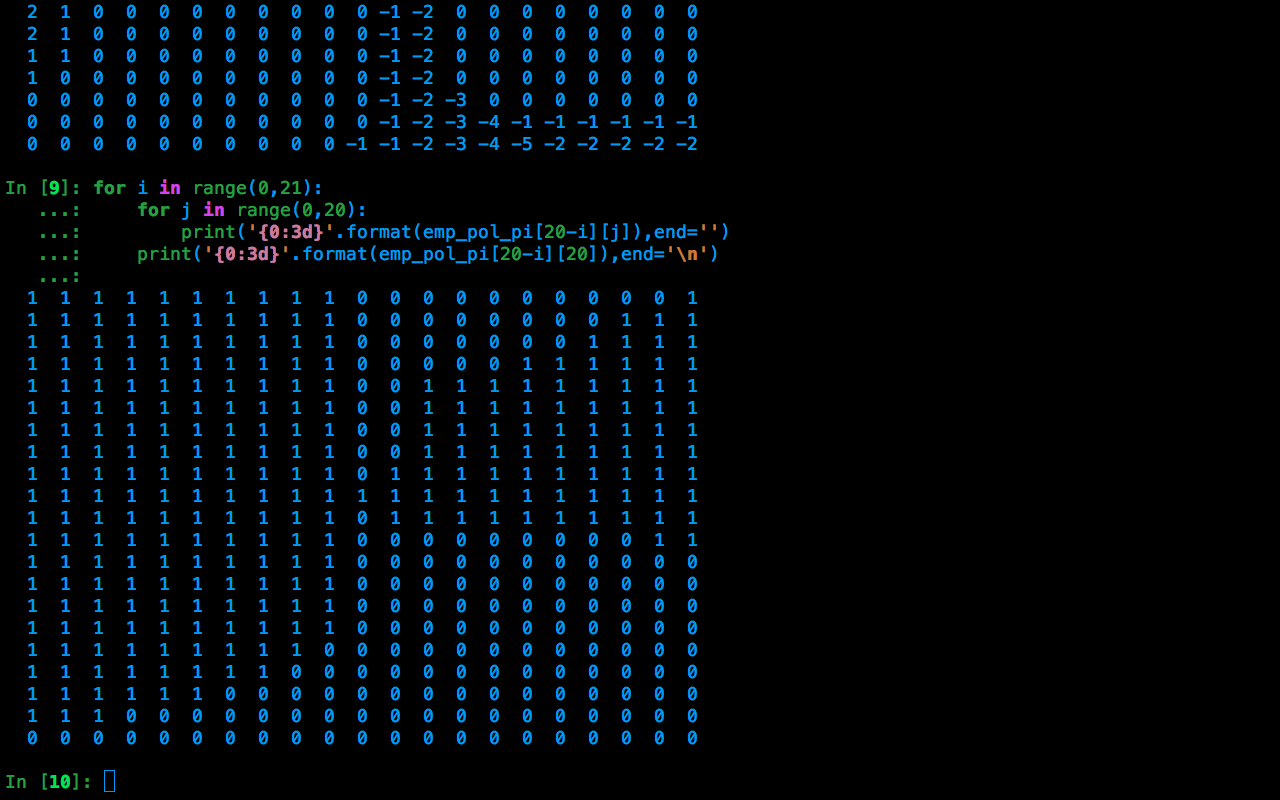
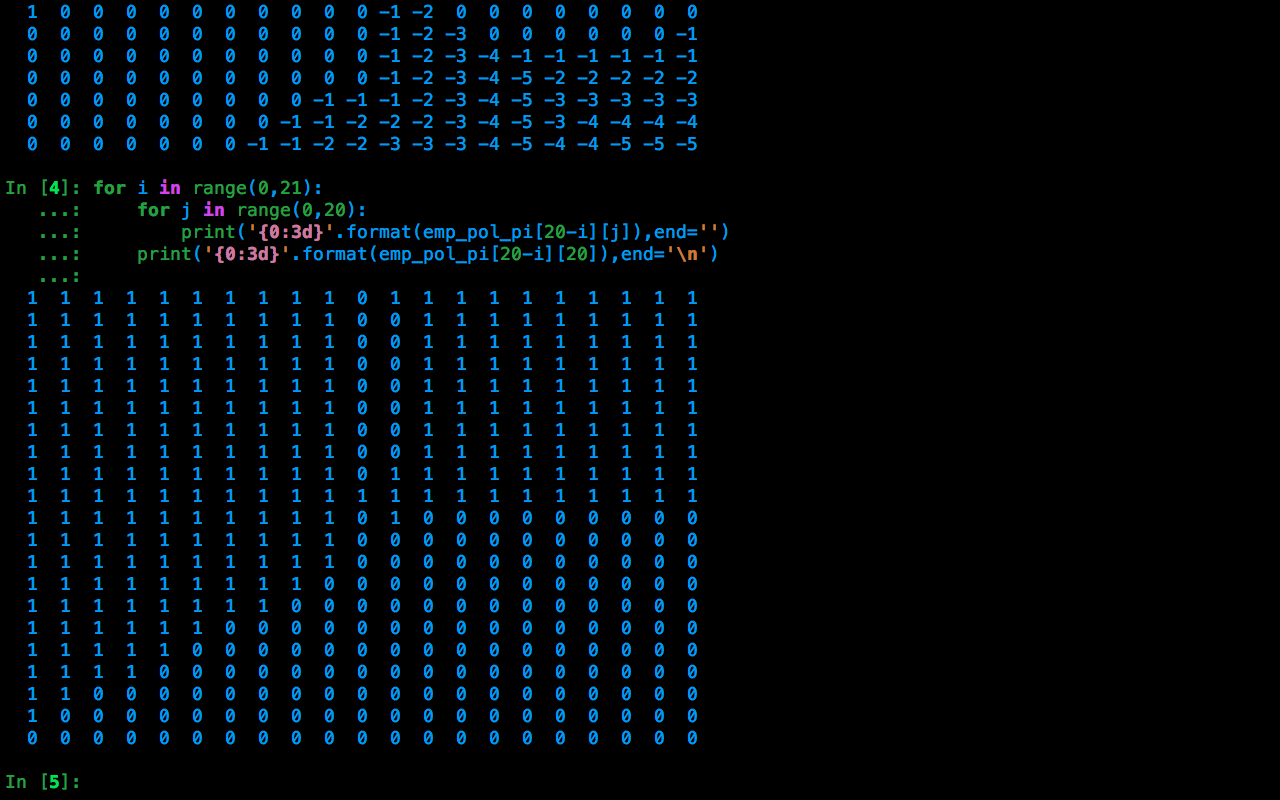
carrental correct both e42 and e 45

diff --git a/CZ/carrental_e42.py b/CZ/carrental_e42.py
@@ -23,8 +23,9 @@ def cmpt_P_and_R(lambda_rental,lambda_return):
     for n in nCM:
         tmp = float(0)
         for n_rental in range(0,1+10*lambda_rental):
-            for n_return in range(0,1+10*lambda_return):
-                tmp = tmp + 10*min(n,n_rental)*poisspdf(n_rental, lambda_rental)*poisspdf(n_return,lambda_return)
+            tmp = tmp + 10*min(n,n_rental)*poisspdf(n_rental, lambda_rental)
+#            for n_return in range(0,1+10*lambda_return):
+#                tmp = tmp + 10*min(n,n_rental)*poisspdf(n_rental, lambda_rental)*poisspdf(n_return,lambda_return)
         R[n] = tmp
         
     P = [[0 for i in range(0,max_n_cars+1)] for j in range(0,len(nCM))]
@@ -44,9 +45,11 @@ def ind2sub(d,s):
     y = (s-x)/(d+1)
     return int(x), int(y)
 
-def rhs_state_value_bellman(na,nb,ntrans,useEmp,V,Ra,Pa,Rb,Pb):
+#def rhs_state_value_bellman(na,nb,ntrans,useEmp,V,Ra,Pa,Rb,Pb):
+def rhs_state_value_bellman(na,nb,ntrans,V,Ra,Pa,Rb,Pb):
     # restrict this action: 
-    ntrans_total = ntrans+useEmp
+    # ntrans_total = ntrans+useEmp
+    ntrans_total = ntrans
     ntrans_total = max(-nb,min(ntrans_total,na))
     ntrans_total = max(-max_num_cars_can_transfer,min(+max_num_cars_can_transfer,ntrans_total))
     
@@ -77,7 +80,7 @@ def rhs_state_value_bellman(na,nb,ntrans,useEmp,V,Ra,Pa,Rb,Pb):
                 sys.exit()
     return v_tmp
 
-def policy_evaluation(V,pol_pi,emp_pol_pi,Ra,Pa,Rb,Pb):
+def policy_evaluation(V,pol_pi,Ra,Pa,Rb,Pb):
     n_states = (max_n_cars+1)**2
     MAX_N_ITERS = 100
 #    iterCnt = 0
@@ -94,15 +97,16 @@ def policy_evaluation(V,pol_pi,emp_pol_pi,Ra,Pa,Rb,Pb):
             v = V[na][nb]
             # get transfer numbers
             ntrans = pol_pi[na][nb]
-            useEmp = emp_pol_pi[na][nb]
+            # useEmp = emp_pol_pi[na][nb]
             
-            V[na][nb] = rhs_state_value_bellman(na,nb,ntrans,useEmp,V,Ra,Pa,Rb,Pb)
+            V[na][nb] = rhs_state_value_bellman(na,nb,ntrans,V,Ra,Pa,Rb,Pb)
             
             delta = max(delta, abs(v-V[na][nb]))
 #        iterCnt = iterCnt + 1
     return V
 
-def policy_improvement(pol_pi,emp_pol_pi,V,Ra,Pa,Rb,Pb):
+#def policy_improvement(pol_pi,emp_pol_pi,V,Ra,Pa,Rb,Pb):
+def policy_improvement(pol_pi,V,Ra,Pa,Rb,Pb):
     n_states = (max_n_cars+1)**2
     policyStable = True
     
@@ -112,9 +116,9 @@ def policy_improvement(pol_pi,emp_pol_pi,V,Ra,Pa,Rb,Pb):
         
         # policy for this state
         b = pol_pi[na][nb]
-        b_emp = emp_pol_pi[na][nb]
+        # b_emp = emp_pol_pi[na][nb]
         
-        useEmp = 0
+        # useEmp = 0
         posA = min(na,max_num_cars_can_transfer)
         posB = min(nb,max_num_cars_can_transfer)
         
@@ -124,41 +128,44 @@ def policy_improvement(pol_pi,emp_pol_pi,V,Ra,Pa,Rb,Pb):
         
         for ti in range(0,npa):
             ntrans = posActionsInState0[ti]
-            bm = rhs_state_value_bellman(na,nb,ntrans,useEmp,V,Ra,Pa,Rb,Pb)
+            #bm = rhs_state_value_bellman(na,nb,ntrans,useEmp,V,Ra,Pa,Rb,Pb)
+            bm = rhs_state_value_bellman(na,nb,ntrans,V,Ra,Pa,Rb,Pb)
             Q0.append(bm)
             
-        useEmp = 1
-        posA = min(max(na-1,0),max_num_cars_can_transfer)
-        posB = min(nb,max_num_cars_can_transfer)
-        
-        posActionsInState1 = range(-posB,posA+1)
-        npa = len(posActionsInState1)
-        Q1 = []
-        
-        for ti in range(0,npa):
-            ntrans = posActionsInState1[ti]
-            bm = rhs_state_value_bellman(na,nb,ntrans,useEmp,V,Ra,Pa,Rb,Pb)
-            Q1.append(bm)
-            
+#        useEmp = 1
+#        posA = min(max(na-1,0),max_num_cars_can_transfer)
+#        posB = min(nb,max_num_cars_can_transfer)
+#        
+#        posActionsInState1 = range(-posB,posA+1)
+#        npa = len(posActionsInState1)
+#        Q1 = []
+#        
+#        for ti in range(0,npa):
+#            ntrans = posActionsInState1[ti]
+#            bm = rhs_state_value_bellman(na,nb,ntrans,useEmp,V,Ra,Pa,Rb,Pb)
+#            Q1.append(bm)
+#            
         max0 = max(Q0)
         imax0 = Q0.index(max0)
         
-        max1 = max(Q1)
-        imax1 = Q1.index(max1)
+#        max1 = max(Q1)
+#        imax1 = Q1.index(max1)
         
-        dum = max(max0,max1)
-        useEmpMax = [max0,max1].index(dum)
+#        dum = max(max0,max1)
+#        useEmpMax = [max0,max1].index(dum)
+
         
-        if(useEmpMax==0):
-            maxPosAct = posActionsInState0[imax0]
-        else:
-            maxPosAct = posActionsInState1[imax1]
+#        if(useEmpMax==0):
+        maxPosAct = posActionsInState0[imax0]
+#        else:
+#            maxPosAct = posActionsInState1[imax1]
         
-        if(maxPosAct!=b or useEmpMax!=b_emp):
-            policyStable = 0
+        if(maxPosAct!=b): #or useEmpMax!=b_emp):
+            policyStable = False
             pol_pi[na][nb] = maxPosAct
-            emp_pol_pi[na][nb] = useEmpMax
-    return pol_pi,emp_pol_pi,policyStable
+#            emp_pol_pi[na][nb] = useEmpMax
+#    return pol_pi,emp_pol_pi,policyStable
+    return pol_pi,policyStable
             
             
 # Main method
@@ -172,15 +179,16 @@ V = [[0 for i in range(0,max_n_cars+1)] for j in range(0,max_n_cars+1)]
 
 # initial policy
 pol_pi = [[0 for i in range(0,max_n_cars+1)] for j in range(0,max_n_cars+1)]
-emp_pol_pi = [[0 for i in range(0,max_n_cars+1)] for j in range(0,max_n_cars+1)]
+# emp_pol_pi = [[0 for i in range(0,max_n_cars+1)] for j in range(0,max_n_cars+1)]
 
 policyStable = False
 # iterNum = 0
 while(not policyStable):
     # evaluate the state-value function under this policy:
-    V = policy_evaluation(V,pol_pi,emp_pol_pi,Ra,Pa,Rb,Pb)
+    V = policy_evaluation(V,pol_pi,Ra,Pa,Rb,Pb)
     # compute an improved policy using the most recent as a base:
-    pol_pi, emp_pol_pi, policyStable = policy_improvement(pol_pi,emp_pol_pi,V,Ra,Pa,Rb,Pb)
+    # pol_pi, emp_pol_pi, policyStable = policy_improvement(pol_pi,emp_pol_pi,V,Ra,Pa,Rb,Pb)
+    pol_pi, policyStable = policy_improvement(pol_pi,V,Ra,Pa,Rb,Pb)
 
 #    iterNum = iterNum + 1
 #    if(iterNum==2):

diff --git a/CZ/carrental_e45.py b/CZ/carrental_e45.py
@@ -23,8 +23,9 @@ def cmpt_P_and_R(lambda_rental,lambda_return):
     for n in nCM:
         tmp = float(0)
         for n_rental in range(0,1+10*lambda_rental):
-            for n_return in range(0,1+10*lambda_return):
-                tmp = tmp + 10*min(n,n_rental)*poisspdf(n_rental, lambda_rental)*poisspdf(n_return,lambda_return)
+            tmp = tmp + 10*min(n,n_rental)*poisspdf(n_rental, lambda_rental)
+#            for n_return in range(0,1+10*lambda_return):
+#                tmp = tmp + 10*min(n,n_rental)*poisspdf(n_rental, lambda_rental)*poisspdf(n_return,lambda_return)
         R[n] = tmp
         
     P = [[0 for i in range(0,max_n_cars+1)] for j in range(0,len(nCM))]
@@ -155,7 +156,7 @@ def policy_improvement(pol_pi,emp_pol_pi,V,Ra,Pa,Rb,Pb):
             maxPosAct = posActionsInState1[imax1]
         
         if(maxPosAct!=b or useEmpMax!=b_emp):
-            policyStable = 0
+            policyStable = False
             pol_pi[na][nb] = maxPosAct
             emp_pol_pi[na][nb] = useEmpMax
     return pol_pi,emp_pol_pi,policyStable
